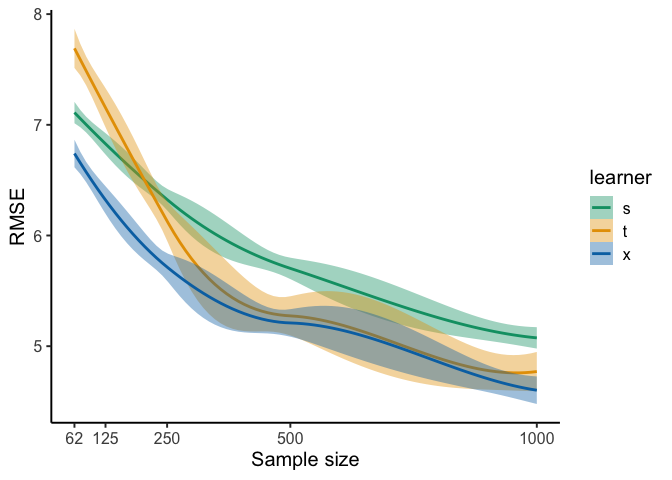
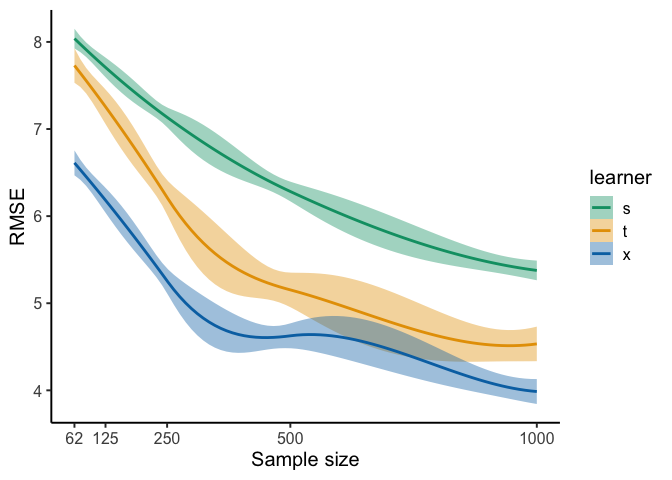
add confounder comparison plot for x-learns

diff --git a/code/notebooks/2024-02-26_explore-results.md b/code/notebooks/2024-02-26_explore-results.md
@@ -1,5 +1,5 @@
 eleanorjackson
-13 March, 2024
+26 March, 2024
 
 ``` r
 library("tidyverse")
@@ -8,12 +8,12 @@ library("patchwork")
 ```
 
 ``` r
-results <- readRDS(here("data", "derived", "results.rds")) %>% 
-  filter(n_train != 31)
+results <- readRDS(here("data", "derived", "results.rds"))
 ```
 
 ``` r
 results %>% 
+  filter(restrict_confounder == FALSE) %>% 
   ggplot(aes(x = n_train, y = rmse, colour = learner)) +
   geom_jitter(shape = 16, alpha = 0.6) +
   stat_summary(fun = median, geom = "line", linewidth = 1) +
@@ -25,6 +25,7 @@ results %>%
   theme_classic(base_size = 15) -> p1
 
 results %>% 
+  filter(restrict_confounder == FALSE) %>% 
   drop_na() %>% 
   ggplot(aes(x = n_train, y = rmse, 
              group = learner, colour = learner, fill = learner)) +
@@ -43,6 +44,7 @@ results %>%
 
 ``` r
 results %>% 
+  filter(restrict_confounder == FALSE) %>%
   ggplot(aes(x = prop_not_treated, y = rmse, colour = learner)) +
   geom_jitter(shape = 16, alpha = 0.6) +
   stat_summary(fun = median, geom = "line", linewidth = 1) +
@@ -56,6 +58,7 @@ results %>%
 
 ``` r
 results %>% 
+  filter(restrict_confounder == FALSE) %>%
   ggplot(aes(x = assignment, y = rmse, colour = learner, group = learner)) +
   geom_jitter(shape = 16, alpha = 0.6) +
   stat_summary(fun = median, geom = "line", linewidth = 1) +
@@ -68,6 +71,7 @@ results %>%
 
 ``` r
 results %>% 
+  filter(restrict_confounder == FALSE) %>%
   ggplot(aes(x = var_omit, y = rmse, colour = learner, group = learner)) +
   geom_jitter(shape = 16, alpha = 0.6) +
   stat_summary(fun = median, geom = "line", linewidth = 1) +
@@ -80,6 +84,7 @@ results %>%
 
 ``` r
 results %>% 
+  filter(restrict_confounder == FALSE) %>%
   ggplot(aes(x = test_plot_location, y = rmse, colour = learner, group = learner)) +
   geom_jitter(shape = 16, alpha = 0.6) +
   stat_summary(fun = median, geom = "line", linewidth = 1) +
@@ -92,6 +97,7 @@ results %>%
 
 ``` r
 results %>% 
+  filter(restrict_confounder == FALSE) %>%
   ggplot(aes(x = prop_not_treated, y = median_ps, colour = assignment)) +
   geom_jitter() +
   ylab("Median propensity score") +
@@ -105,3 +111,84 @@ p1 + p2+ p3 +
 ```
 
 ![](figures/2024-02-26_explore-results/unnamed-chunk-8-1.png)<!-- -->
+
+``` r
+results %>% 
+  filter(learner == "x") %>% 
+  ggplot(aes(x = n_train, y = rmse, 
+             colour = restrict_confounder)) +
+  geom_jitter(shape = 16, alpha = 0.7) +
+  stat_summary(fun = median, geom = "line", linewidth = 1) +
+  stat_summary(fun = median, size = 1, fill = "white", shape = 21, stroke = 1.5) +
+  scale_colour_manual(values = c("#D55E00", "#56B4E9")) +
+  scale_x_continuous(breaks = c(0, 62, 125, 250, 500, 1000)) +
+  xlab("Sample size") +
+  ylab("RMSE") +
+  theme_classic(base_size = 15) -> p7
+```
+
+``` r
+results %>% 
+  filter(learner == "x") %>% 
+  ggplot(aes(x = prop_not_treated, y = rmse, 
+             colour = restrict_confounder)) +
+  geom_jitter(shape = 16, alpha = 0.7) +
+  stat_summary(fun = median, geom = "line", linewidth = 1) +
+  stat_summary(fun = median, size = 1, fill = "white", shape = 21, stroke = 1.5) +
+  scale_colour_manual(values = c("#D55E00", "#56B4E9")) +
+  scale_x_continuous(breaks = c(0.3, 0.5, 0.7)) +
+  xlab("Proportion not treated (treatment imbalance)") +
+  ylab("RMSE") +
+  theme_classic(base_size = 15) -> p8
+```
+
+``` r
+results %>% 
+  filter(learner == "x") %>% 
+  ggplot(aes(x = assignment, y = rmse, 
+             colour = restrict_confounder, group = restrict_confounder)) +
+  geom_jitter(shape = 16, alpha = 0.7) +
+  stat_summary(fun = median, geom = "line", linewidth = 1) +
+  stat_summary(fun = median, size = 1, fill = "white", shape = 21, stroke = 1.5) +
+  scale_colour_manual(values = c("#D55E00", "#56B4E9")) +
+  xlab("Treatment assignment") +
+  ylab("RMSE") +
+  theme_classic(base_size = 15) -> p9
+```
+
+``` r
+results %>% 
+  filter(learner == "x") %>% 
+  ggplot(aes(x = var_omit, y = rmse, 
+             colour = restrict_confounder, group = restrict_confounder)) +
+  geom_jitter(shape = 16, alpha = 0.7) +
+  stat_summary(fun = median, geom = "line", linewidth = 1) +
+  stat_summary(fun = median, size = 1, fill = "white", shape = 21, stroke = 1.5) +
+  scale_colour_manual(values = c("#D55E00", "#56B4E9")) +
+  xlab("Omission of important variable") +
+  ylab("RMSE") +
+  theme_classic(base_size = 15) -> p10
+```
+
+``` r
+results %>% 
+  filter(learner == "x") %>% 
+  ggplot(aes(x = test_plot_location, y = rmse, 
+             colour = restrict_confounder, group = restrict_confounder)) +
+  geom_jitter(shape = 16, alpha = 0.7) +
+  stat_summary(fun = median, geom = "line", linewidth = 1) +
+  stat_summary(fun = median, size = 1, fill = "white", shape = 21, stroke = 1.5) +
+  scale_colour_manual(values = c("#D55E00", "#56B4E9")) +
+  xlab("Location of test plots") +
+  ylab("RMSE") +
+  theme_classic(base_size = 15) -> p11
+```
+
+``` r
+p7 + p8+ p9 + 
+  p10 + p11 + 
+  plot_layout(guides = "collect") + 
+  plot_annotation(title = "X-learners only")
+```
+
+![](figures/2024-02-26_explore-results/unnamed-chunk-14-1.png)<!-- -->
